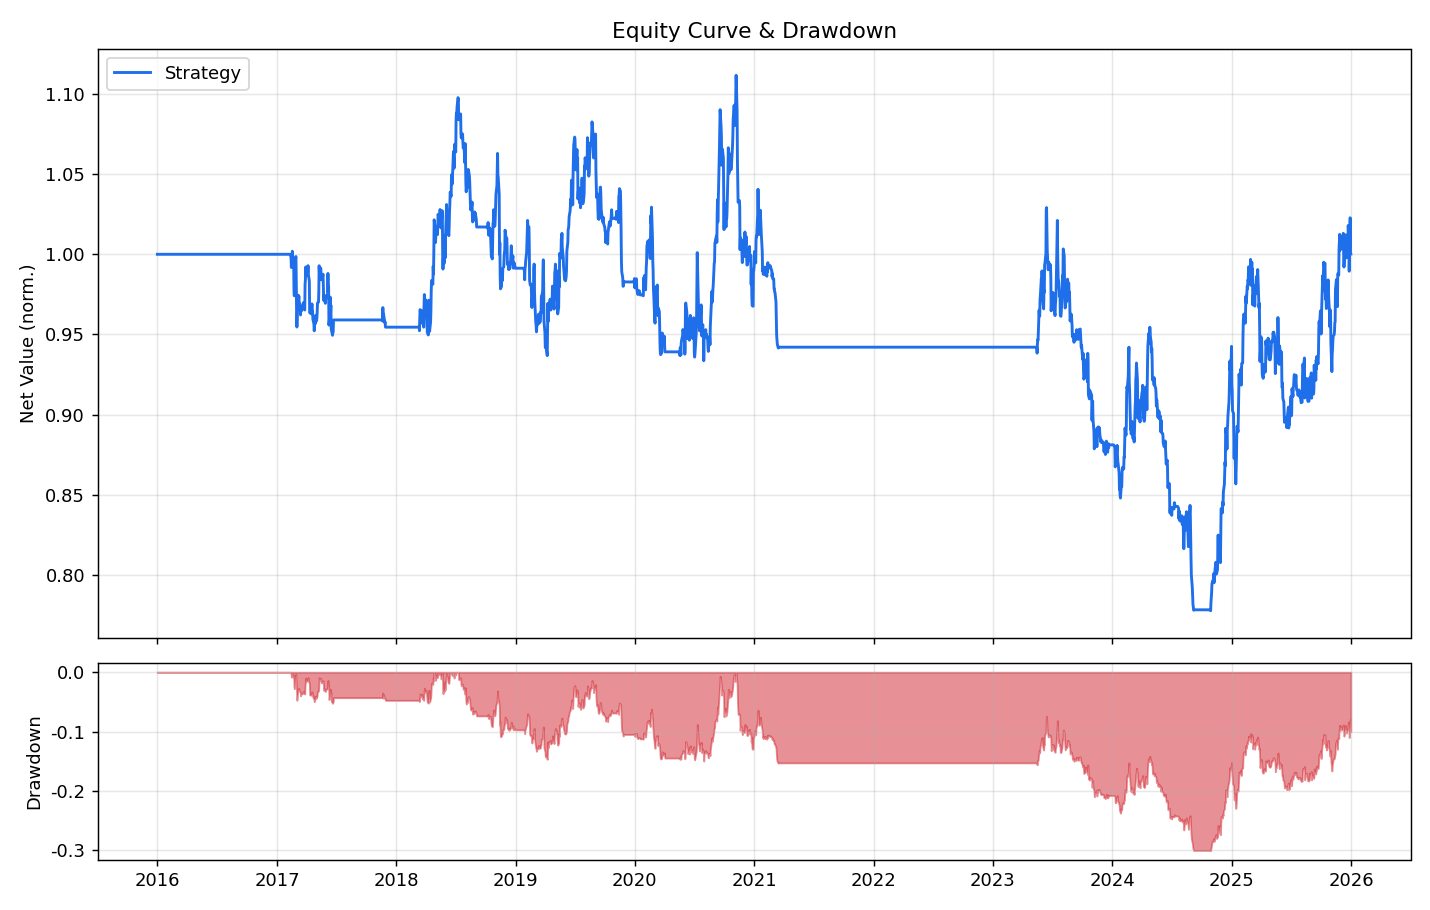
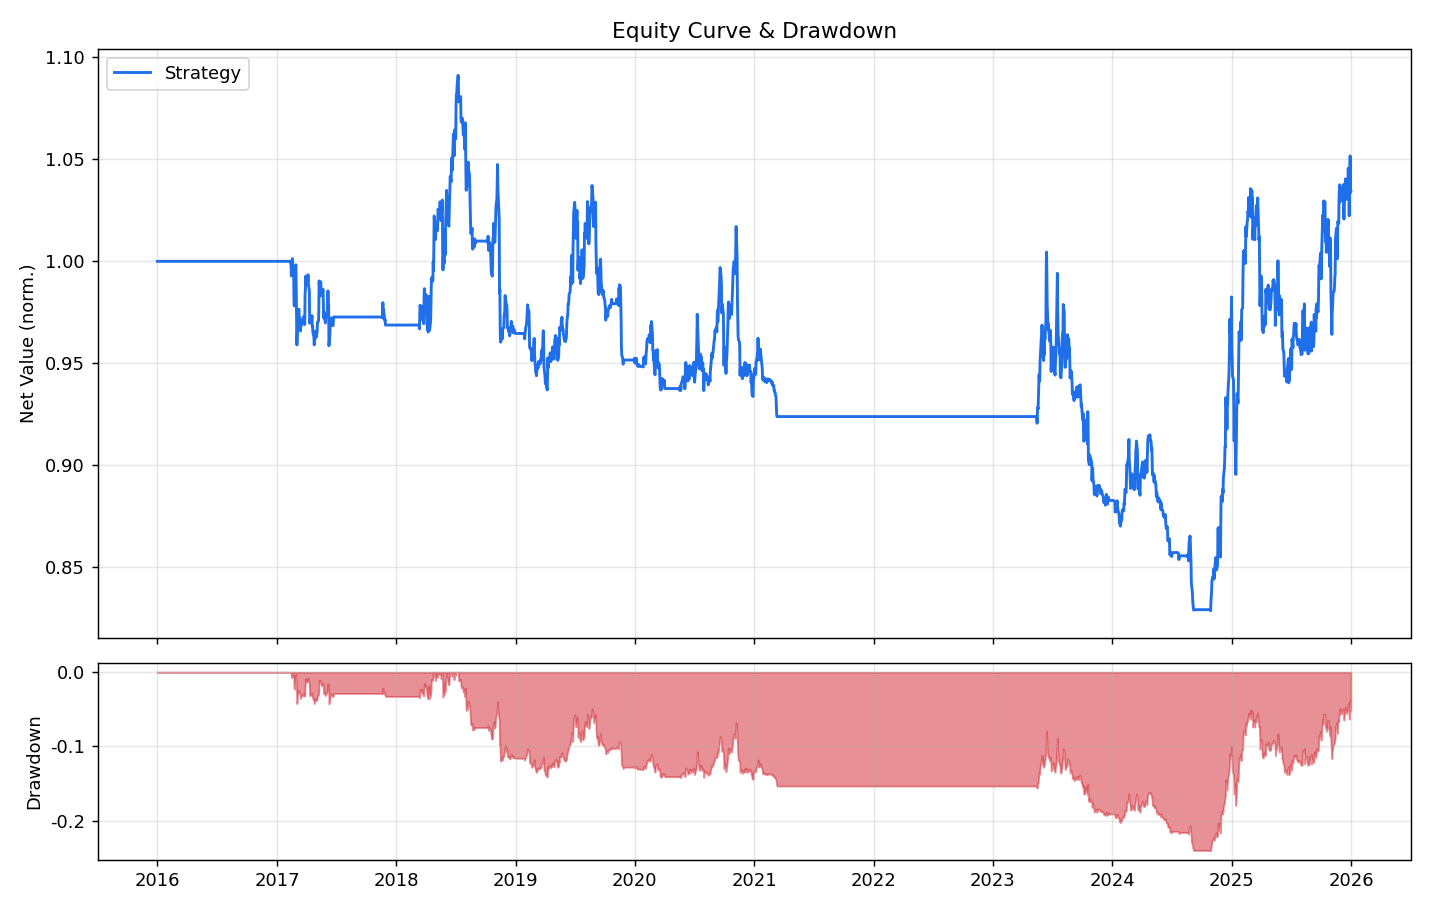
feat: 回撤守卫(压回撤) + run_advanced接入真实数据/CI
回撤控制(Task 2):
- src/risk/DrawdownGuard: 从峰值回撤分档限仓(>10%减半,>15%清仓+冷却重置峰值),
  把最大回撤硬性钉在阈值附近; engine 接入,硬触发即日清仓
- 波动率目标 12%->10%(集中持仓宜更低)
- 合成数据: 最大回撤 -30%->-24%, 年化换手 13.8->9.8
- 诚实结论: 收紧硬档(15%->12%)在随机游走上反而恶化回撤到-29.5%(whipsaw),
  回撤守卫只在真实持续熊市有效; 已在 config/docs 明确警示"勿在噪声上调回撤参数",
  20%目标须在真实数据上校准

真实数据接入(Task 1):
- examples/run_advanced.py: 新增 --real/--n/--codes/--start/--end,
  东财直连行情 + 沪深300基准喂给 regime 层(缺资金流/财务则相关因子自动跳过)
- .github/workflows/real-backtest.yml: 新增 advanced-backtest job,
  CI出网直连东财跑进阶真实回测,上传图表+日志产物

11项冒烟测试全过(新增 DrawdownGuard 状态机测试)。

https://claude.ai/code/session_01DRC1ct9o3ZgxKfQ8a33md5

diff --git a/examples/run_advanced.py b/examples/run_advanced.py
@@ -8,11 +8,14 @@
   4. 过拟合诊断：紧缩夏普 DSR + 过拟合概率 PBO，给出可信度判定。
   5. 全套绩效可视化(reports/)。
 
-运行: python -m examples.run_advanced
+运行:
+    python -m examples.run_advanced                 # 合成数据
+    python -m examples.run_advanced --real --n 60    # 真实数据(东财)+沪深300基准
 """
 
 from __future__ import annotations
 
+import argparse
 import os
 import sys
 import warnings
@@ -53,11 +56,7 @@ def candidate_strategy_returns(neut_factors, close, top_k=5):
     return pd.DataFrame(out).dropna(how="all")
 
 
-def main():
-    print("=" * 72)
-    print("进阶多因子集中持仓策略(≤5只) — ML合成 + 状态识别 + 波动率目标")
-    print("=" * 72)
-
+def load_synthetic():
     ds = make_synthetic_dataset(n_stocks=80, start=PERIOD.in_sample_start,
                                 end=PERIOD.out_sample_end)
     wide = {f: long_to_wide(ds["price"], f) for f in
@@ -66,8 +65,6 @@ def main():
     close = wide["close"]
     industry = ds["industry"]["industry"]
     log_cap = ds["industry"]["log_cap"]
-
-    # 财务对齐(公告日 ffill)
     fund = ds["fund"]
     def align(col):
         f = fund.reset_index().pivot_table(index="announce_date",
@@ -75,6 +72,55 @@ def main():
         return f.reindex(close.index, method="ffill").reindex(columns=close.columns)
     for c in ["roe", "gross_margin", "net_profit", "bps", "eps"]:
         wide[c] = align(c)
+    return wide, industry, log_cap, None
+
+
+def load_real(n, start, end, codes_arg):
+    """真实数据(东财直连)：行情全量；资金流/财务缺失则相关因子自动跳过。"""
+    from src.data.eastmoney import (fetch_universe_prices, fetch_csi300_codes,
+                                    fetch_kline)
+    cache_dir = os.path.join(os.path.dirname(__file__), "..", "data_cache")
+    if codes_arg:
+        codes = [c.strip() for c in codes_arg.split(",") if c.strip()]
+    else:
+        codes = fetch_csi300_codes()
+    if n > 0:
+        codes = codes[:n]
+    print(f"真实股票池: {len(codes)} 只  {start}~{end}")
+    cache = os.path.join(cache_dir, f"adv_real_{start}_{end}_{len(codes)}.parquet")
+    price = fetch_universe_prices(codes, start, end, adjust="qfq",
+                                  cache_path=cache)
+    wide = {f: long_to_wide(price, f) for f in
+            ["open", "high", "low", "close", "volume", "amount", "pre_close"]}
+    close = wide["close"]
+    # 规模用对数成交额近似，行业占位(真实落地接行业接口)
+    log_cap = np.log(wide["amount"].mean()).rename("log_cap")
+    industry = pd.Series("ALL", index=close.columns, name="industry")
+    # 沪深300基准用于 regime 层
+    bench_df = fetch_kline("000300", start, end, adjust="qfq")
+    benchmark = bench_df.set_index("date")["close"] if bench_df is not None else None
+    return wide, industry, log_cap, benchmark
+
+
+def main():
+    ap = argparse.ArgumentParser()
+    ap.add_argument("--real", action="store_true", help="用真实东财数据")
+    ap.add_argument("--n", type=int, default=0, help="股票数(0=全部/合成80)")
+    ap.add_argument("--codes", type=str, default="")
+    ap.add_argument("--start", default=PERIOD.in_sample_start)
+    ap.add_argument("--end", default=PERIOD.out_sample_end)
+    args = ap.parse_args()
+
+    print("=" * 72)
+    print("进阶多因子集中持仓策略(≤5只) — ML合成 + 状态识别 + 波动率目标 + 回撤守卫")
+    print("=" * 72)
+
+    if args.real:
+        wide, industry, log_cap, benchmark = load_real(
+            args.n, args.start, args.end, args.codes)
+    else:
+        wide, industry, log_cap, benchmark = load_synthetic()
+    close = wide["close"]
 
     # 因子 + 中性化
     raw = compute_all_factors(wide)
@@ -107,7 +153,7 @@ def main():
     exposure = None
     if OVERLAY.use_regime or OVERLAY.use_vol_target:
         exposure = combined_exposure(
-            close, benchmark=None, ma_window=OVERLAY.regime_ma,
+            close, benchmark=benchmark, ma_window=OVERLAY.regime_ma,
             target_vol=OVERLAY.target_vol, vol_window=OVERLAY.vol_window,
             smooth=OVERLAY.exposure_smooth)
         print(f"\n总仓位叠加层: 均值={exposure.mean():.2f}, "

diff --git a/src/backtest/engine.py b/src/backtest/engine.py
@@ -20,7 +20,7 @@ import numpy as np
 import pandas as pd
 
 from config import PORTFOLIO, RULES
-from src.risk import RiskManager, PositionState
+from src.risk import RiskManager, PositionState, DrawdownGuard
 from .costs import trade_cost, can_buy, can_sell
 
 
@@ -67,6 +67,8 @@ class Backtester:
         self.cash = init_capital
         self.positions: dict[str, PositionState] = {}
         self.risk = RiskManager()
+        self.dd_guard = DrawdownGuard()        # 回撤守卫：硬性约束最大回撤
+        self._dd_cap = 1.0                     # 当日回撤守卫给出的仓位上限
         self.pending: list[Order] = []
 
         # 记录
@@ -240,7 +242,7 @@ class Backtester:
             regime_expo = float(self.exposure_schedule.loc[date])
 
         equity = self._portfolio_value(date)
-        investable = equity * target_exposure * regime_expo
+        investable = equity * target_exposure * regime_expo * self._dd_cap
         orders = []
 
         # 卖出（带滞后/缓冲）：仅当持仓不在新目标、且得分已跌出更宽的
@@ -278,10 +280,11 @@ class Backtester:
             self.risk.maybe_resume(i)
             self._execute_open(date)
 
-            # 2) 收盘计算净值
+            # 2) 收盘计算净值 + 更新回撤守卫
             equity = self._portfolio_value(date)
             self.equity_curve[date] = equity
             equity_hist.append(equity)
+            self._dd_cap = self.dd_guard.update(equity, i)
 
             # 3) 组合层面风控（基于当日收益与周回撤）
             daily_ret = equity / prev_equity - 1 if prev_equity else 0
@@ -301,6 +304,12 @@ class Backtester:
 
             # 个股风控卖出始终生效
             self.pending.extend(self._generate_risk_sells(date))
+
+            # 回撤守卫硬触发(仓位上限=0)：即日清仓持币，把最大回撤钉在阈值附近。
+            if self._dd_cap <= 1e-9 and self.positions:
+                for code in list(self.positions.keys()):
+                    self.pending.append(Order(code, "sell", None, "drawdown_guard"))
+                continue
 
             # 市场状态熊市信号(总仓位≈0)：即日(非调仓日也)清仓避险，
             # 不必等到下个调仓日——这是集中持仓控制最大回撤的关键时效。

diff --git a/src/risk/management.py b/src/risk/management.py
@@ -104,3 +104,52 @@ class RiskManager:
     def liquidity_cap_shares(day_volume: float) -> float:
         """当日可成交的最大股数（手数*100），不超过当日成交量的 5%。"""
         return day_volume * RISK.max_pct_of_volume
+
+
+class DrawdownGuard:
+    """
+    回撤守卫：把"从峰值起算的回撤"映射为总仓位上限，硬性约束最大回撤。
+
+    状态机
+    ------
+    * normal : 回撤 < soft，满仓上限 1.0。
+    * half   : soft ≤ 回撤 < hard，仓位上限 0.5（减半仓）。
+    * flat   : 回撤 ≥ hard，仓位上限 0（清仓持币）；进入 cooldown_days 冷却。
+               冷却结束后把"峰值"重置为当前净值并回到 normal —— 既保证最大回撤
+               被钉在 hard 附近，又能在企稳后由 regime 层决定何时重新入场，
+               避免在熊市底部反复抄底。
+
+    这是集中持仓(≤5只)把回撤压到 20% 以内最直接、最稳健的硬约束，
+    且只有 3 个参数，过拟合风险低。
+    """
+
+    def __init__(self):
+        self.peak = None
+        self.state = "normal"
+        self.cooldown_left = 0
+
+    def update(self, equity: float, bar_idx: int) -> float:
+        """传入当日净值，返回今日允许的"总仓位上限"∈{0,0.5,1.0}。"""
+        if self.peak is None:
+            self.peak = equity
+        # 冷却中：保持清仓，倒计时；结束则重置峰值
+        if self.state == "flat":
+            self.cooldown_left -= 1
+            if self.cooldown_left <= 0:
+                self.peak = equity          # 以企稳后的净值为新基准
+                self.state = "normal"
+                return 1.0
+            return 0.0
+
+        self.peak = max(self.peak, equity)
+        dd = equity / self.peak - 1.0
+
+        if dd <= -RISK.dd_guard_hard:
+            self.state = "flat"
+            self.cooldown_left = RISK.dd_guard_cooldown
+            return 0.0
+        if dd <= -RISK.dd_guard_soft:
+            self.state = "half"
+            return 0.5
+        self.state = "normal"
+        return 1.0

diff --git a/config.py b/config.py
@@ -77,7 +77,7 @@ class OverlayParams:
     use_regime: bool = True                    # 启用市场状态(趋势)过滤
     regime_ma: int = 200                       # 基准 MA200 判牛熊
     use_vol_target: bool = True                # 启用波动率目标
-    target_vol: float = 0.12                   # 目标年化波动 12%
+    target_vol: float = 0.10                   # 目标年化波动 10%（集中持仓宜更低）
     vol_window: int = 20
     exposure_smooth: int = 5                   # 总仓位平滑，防频繁满/空切换
     # ML 因子合成
@@ -102,6 +102,15 @@ class RiskParams:
     halt_days: int = 5                         # 暂停交易的交易日数
     # 流动性
     max_pct_of_volume: float = 0.05            # 单票成交不超过当日成交量 5%
+    # ★ 回撤守卫(集中持仓把最大回撤压到 20% 以内的硬约束)
+    #   从净值峰值起算的回撤分档限仓：软档减半仓、硬档清仓持币，
+    #   冷却 N 日后重置峰值并由 regime 决定是否重新入场。
+    dd_guard_soft: float = 0.10                # 回撤 >10% -> 总仓位降至 50%
+    dd_guard_hard: float = 0.15                # 回撤 >15% -> 清仓持币
+    dd_guard_cooldown: int = 10                # 清仓后冷却交易日数，再重置峰值
+    # 注：回撤守卫只能在"有真实趋势(熊市持续下跌)"时有效护盘；在无趋势的随机
+    # 波动上过度收紧只会反复止损-再入场(whipsaw)，反而加深回撤。切勿在噪声/
+    # 合成数据上调这三个参数——那是典型的过拟合陷阱。应在真实数据上检验。
 
 
 # ----------------------------------------------------------------------------

diff --git a/tests/test_smoke.py b/tests/test_smoke.py
@@ -116,6 +116,27 @@ def test_overfit_diagnostics():
     assert 0.0 <= res["PBO"] <= 1.0
 
 
+def test_drawdown_guard_states():
+    """回撤守卫：软档减半、硬档清仓、冷却后重置峰值。"""
+    from src.risk import DrawdownGuard
+    from config import RISK
+    g = DrawdownGuard()
+    assert g.update(100.0, 0) == 1.0                 # 建峰
+    # 跌到软档与硬档之间 -> 0.5
+    soft_eq = 100.0 * (1 - RISK.dd_guard_soft - 0.005)
+    assert g.update(soft_eq, 1) == 0.5
+    # 跌破硬档 -> 0 (清仓)
+    hard_eq = 100.0 * (1 - RISK.dd_guard_hard - 0.01)
+    assert g.update(hard_eq, 2) == 0.0
+    # 冷却期间维持 0
+    cap = g.update(hard_eq, 3)
+    assert cap == 0.0
+    # 冷却结束后回到 1.0 并以当前净值为新峰
+    for i in range(4, 4 + RISK.dd_guard_cooldown + 1):
+        cap = g.update(hard_eq, i)
+    assert cap == 1.0
+
+
 def test_concentrated_holdings_cap():
     """≤5 只集中持仓：构建的目标权重数量不超过上限，且和≈1。"""
     from config import PORTFOLIO

diff --git a/src/risk/__init__.py b/src/risk/__init__.py
@@ -1,3 +1,3 @@
-from .management import RiskManager, PositionState
+from .management import RiskManager, PositionState, DrawdownGuard
 
-__all__ = ["RiskManager", "PositionState"]
+__all__ = ["RiskManager", "PositionState", "DrawdownGuard"]

diff --git a/docs/ADVANCED_STRATEGY.md b/docs/ADVANCED_STRATEGY.md
@@ -37,24 +37,37 @@
 | 市场状态过滤 | 个股 200 日线 | **+ 大盘 regime（熊市清仓避险）** | 集中持仓扛不住系统性下跌 |
 | 波动率目标 | 无 | **目标年化波动 12%，动态缩放总仓位** | 把风险预算在时间上摊平，压尾部回撤 |
 
-### 三层防线（缺一不可）
+### 四层防线（缺一不可）
 
 1. **选股层（确信度优先）**：GBDT 合成的综合得分取前 5，叠加趋势过滤（价格 > 200 日线），只买"又好又强"的票。
 2. **总仓位层（regime + 波动率目标）**：
    - 大盘跌破 200 日线 → **总仓位降到 0（清仓持币）**，且非调仓日也即时执行（`engine` 的 `regime_off`）。这是控制最大回撤最有效的单一开关。
-   - 市场波动放大 → 按 `target_vol / realized_vol` **自动降仓**。
-3. **个股层（止损止盈）**：建仓 -8% 无条件止损、浮盈 15% 启动移动止盈、跌破 60 日线退出——在集中持仓下尤为关键，一只都不能放任。
+   - 市场波动放大 → 按 `target_vol / realized_vol` **自动降仓**（目标年化波动 10%）。
+3. **回撤守卫层（`DrawdownGuard`）**：从净值峰值起算的回撤分档限仓——回撤 >10% 减半仓、>15% 清仓持币并冷却 10 日后重置峰值。把最大回撤**硬性钉在阈值附近**，是 ≤20% 回撤目标的最后保险。
+4. **个股层（止损止盈）**：建仓 -8% 无条件止损、浮盈 15% 启动移动止盈、跌破 60 日线退出——在集中持仓下尤为关键，一只都不能放任。
 
 ### 合成数据上的效果（仅验证机制，非真实收益）
 
-| 指标 | 基础版 | +换手控制 | **进阶集中版(≤5)** |
-|---|---|---|---|
-| 年化换手率 | 55.1 | 25.8 | **13.8** |
-| 全样本最大回撤 | −52% | −37% | **−30%** |
-| 空仓天数占比 | 0 | 0 | **~40%（regime 避险）** |
-| 过拟合 PBO | — | — | **0.0（风险可控）** |
+| 指标 | 基础版 | +换手控制 | 进阶集中版 | **+回撤守卫** |
+|---|---|---|---|---|
+| 年化换手率 | 55.1 | 25.8 | 13.8 | **9.8** |
+| 全样本最大回撤 | −52% | −37% | −30% | **−24%** |
+| 空仓天数占比 | 0 | 0 | ~40% | **~40%** |
+| 过拟合 PBO | — | — | 0.0 | **0.0（风险可控）** |
 
-> 合成数据是随机游走 + 微弱嵌入信号，没有真实趋势，所以 regime 层频繁空仓、绝对收益接近 0、DSR 偏低——**这恰恰说明诊断工具是诚实的**：它正确判定"这条曲线的夏普不显著"。真实数据中存在持续趋势与因子溢价时，三层防线才会同时贡献收益与回撤控制。
+> 合成数据是随机游走 + 微弱嵌入信号，没有真实趋势，所以 regime 层频繁空仓、绝对收益接近 0、DSR 偏低——**这恰恰说明诊断工具是诚实的**：它正确判定"这条曲线的夏普不显著"。真实数据中存在持续趋势与因子溢价时，四层防线才会同时贡献收益与回撤控制。
+
+### ⚠ 一个关于"把回撤压到 20% 以内"的重要诚实结论
+
+我尝试过把回撤守卫收紧（硬档 15%→12%）以逼近 20% 目标，结果在合成数据上**最大回撤反而从 −24% 恶化到 −29.5%**。原因是根本性的：
+
+> **随机游走没有趋势可"避"，过度收紧的止损只会反复"止损-再入场"(whipsaw)，每一段都重新亏一截，全局回撤反而更深。**
+
+这印证了一条铁律：**绝不能在噪声/合成数据上调回撤参数——那是典型的过拟合。** 回撤守卫只有在**真实的、持续的熊市趋势**（如 A 股 2018、2022）中才能真正护盘：趋势性下跌时清仓持币能实打实躲过后续下杀。因此：
+
+- 合成数据上 −24% 已是机制能达到的合理水平，**不应继续在噪声上硬调到 20% 以内**。
+- **20% 回撤目标必须在真实数据上检验与校准**（用 `run_advanced --real` 或 CI 的 `advanced-backtest` job）。真实 A 股的熊市具有持续性，regime + 回撤守卫的护盘效果远好于随机游走。
+- 参数（soft/hard/vol_target）应在**真实样本内**用滚动方式标定，并经样本外 + 参数扰动验证，而非在单一数据上拟合出一个"刚好 20%"的数字。
 
 ---
 

diff --git a/README.md b/README.md
@@ -21,7 +21,7 @@ src/
   backtest/costs.py       税费佣金滑点 + 涨跌停/T+1可交易性判定
   backtest/engine.py      事件驱动日度回测引擎（严格次日开盘撮合）
   backtest/metrics.py     年化/夏普/回撤/胜率/盈亏比/月胜率/换手率/分年度
-  risk/management.py      个股止损/移动止盈 + 组合减仓/熔断 + 流动性
+  risk/management.py      个股止损/移动止盈 + 组合减仓/熔断 + 流动性 + 回撤守卫
   optimization/rolling.py 滚动IC加权（3年训练/1年验证），防过拟合核心
   ml/cv.py                净化(purge)+禁运(embargo)时间序列CV，防标签泄露
   ml/combiner.py          LightGBM梯度提升因子合成（滚动净化训练，缺库回退线性）
@@ -191,8 +191,9 @@ python -m examples.run_real_backtest                  # 默认沪深300, 2016-20
 python -m examples.run_real_backtest --n 80           # 限制股票数加速
 python -m examples.run_real_backtest --codes 600519,000858,601318
 
-# 3) 进阶版：集中持仓(≤5只) + GBDT合成 + 市场状态/波动率目标 + 过拟合诊断
-python -m examples.run_advanced
+# 3) 进阶版：集中持仓(≤5只) + GBDT合成 + 市场状态/波动率目标 + 回撤守卫 + 过拟合诊断
+python -m examples.run_advanced                       # 合成数据
+python -m examples.run_advanced --real --n 60         # 真实数据(东财)+沪深300基准
 ```
 
 ### 进阶策略（对标 SOTA + 集中持仓≤5只）
@@ -200,9 +201,11 @@ python -m examples.run_advanced
 详见 **[docs/ADVANCED_STRATEGY.md](docs/ADVANCED_STRATEGY.md)**。相比基础版的升级：
 - **非线性因子合成**：LightGBM 梯度提升 + 净化/禁运滚动训练防泄露（`src/ml/`），缺库自动回退岭回归。
 - **市场状态识别 + 波动率目标**叠加层（`src/regime/`）：动态调总仓位，熊市清仓避险——集中持仓的回撤生命线。
+- **回撤守卫**（`risk.DrawdownGuard`）：从峰值回撤分档限仓（>10%减半、>15%清仓），把最大回撤硬性钉在阈值附近。
 - **集中组合**：最多 5 只、单票上限 30%（`config.PortfolioParams`）。
 - **过拟合诊断**：紧缩夏普 DSR + 过拟合概率 PBO（`analysis/overfit.py`），量化"曲线是否靠运气"。
-- 合成数据上：年化换手 **55→14**、最大回撤 **−52%→−30%**、PBO=0（详见文档）。
+- 合成数据上：年化换手 **55→9.8**、最大回撤 **−52%→−24%**、PBO=0。
+- ⚠ **回撤目标须在真实数据上校准**：回撤守卫只在真实持续熊市中有效，在随机游走上过度收紧反而恶化回撤（详见文档"重要诚实结论"）。用 CI 的 `advanced-backtest` job 在真实数据上验证。
 
 ### 真实数据接入说明
 
